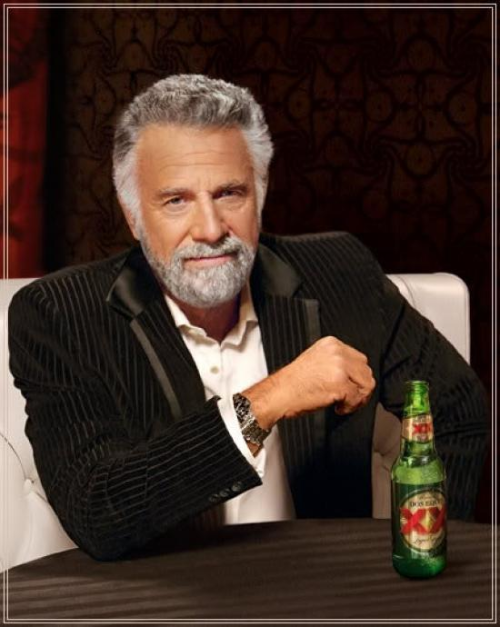
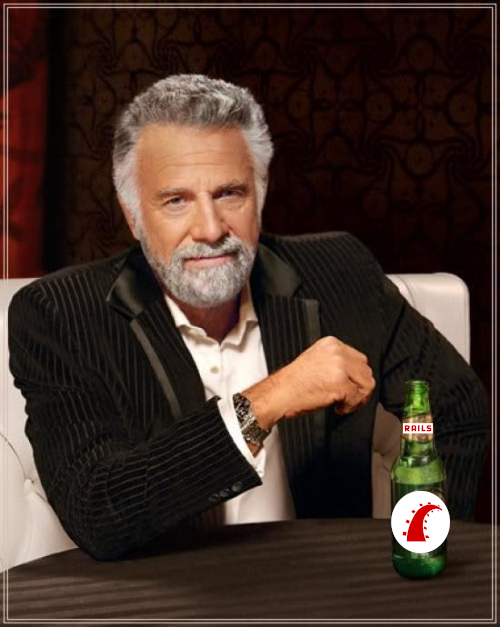
added a few slides

Changed region(s): [[0.78, 0.7576, 0.9, 0.8788], [0.81, 0.6667, 0.87, 0.697]]

diff --git a/app/helpers/navigation_helper.rb b/app/helpers/navigation_helper.rb
@@ -1,0 +1,25 @@
+module NavigationHelper
+  def link_to_previous
+    index = slides.index(@slide)
+    previous_slide = slides.fetch(index - 1, nil) if index > 0
+
+    link_to(
+      "&larr; Previous".html_safe,
+      previous_slide ? slide_path(previous_slide) : "javascript:void(0)",
+      data: {previous: ""},
+      class: previous_slide ? "" : "invisible"
+    )
+  end
+
+  def link_to_next
+    index = slides.index(@slide)
+    next_slide = slides.fetch(index + 1, nil)
+
+    link_to(
+      "Next &rarr;".html_safe,
+      next_slide ? slide_path(next_slide) : "javascript:void(0)",
+      data: {next: ""},
+      class: next_slide ? "" : "invisible"
+    )
+  end
+end

diff --git a/app/controllers/slides_controller.rb b/app/controllers/slides_controller.rb
@@ -1,2 +1,23 @@
 class SlidesController < ApplicationController
+  helper_method :slides
+
+  def show
+    @slide = ActiveSupport::StringInquirer.new(params.fetch("id", "start"))
+    @turbolinks = false if @slide.turbolinks_off_1? || @slide.turbolinks_off_2?
+
+    render action: @slide
+  end
+
+  private
+
+  def slides
+    %w[
+      start
+      meme
+      turbolinks_off_1
+      turbolinks_off_2
+      turbolinks_on_1
+      turbolinks_on_2
+    ]
+  end
 end

diff --git a/config/routes.rb b/config/routes.rb
@@ -1,6 +1,5 @@
 Rails.application.routes.draw do
-  get "/", to: "slides#start"
-  get "meme", to: "slides#meme"
+  resources :slides, only: [:show]
 
-  root to: "slides#start"
+  root to: "slides#show"
 end
